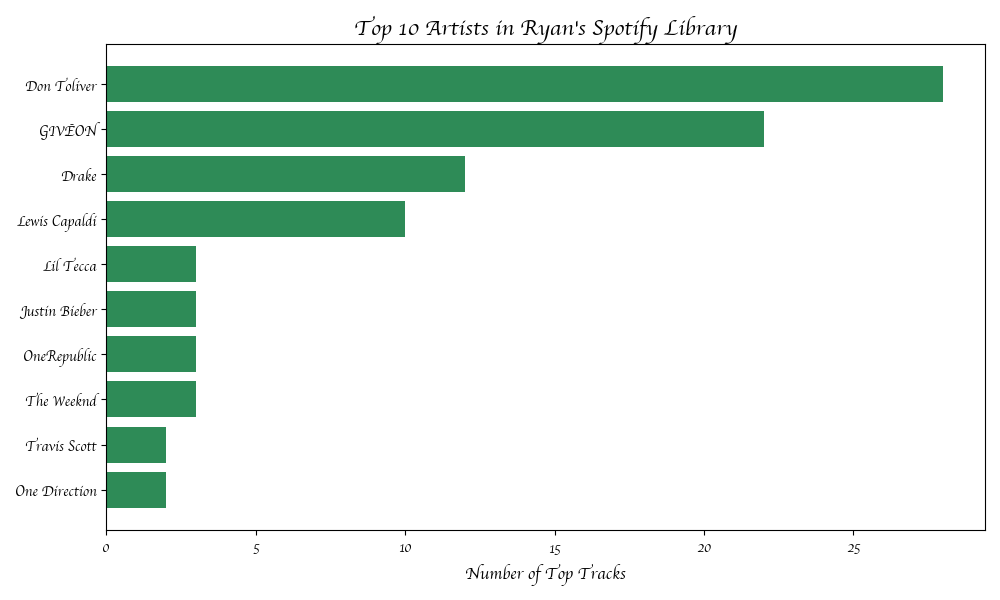
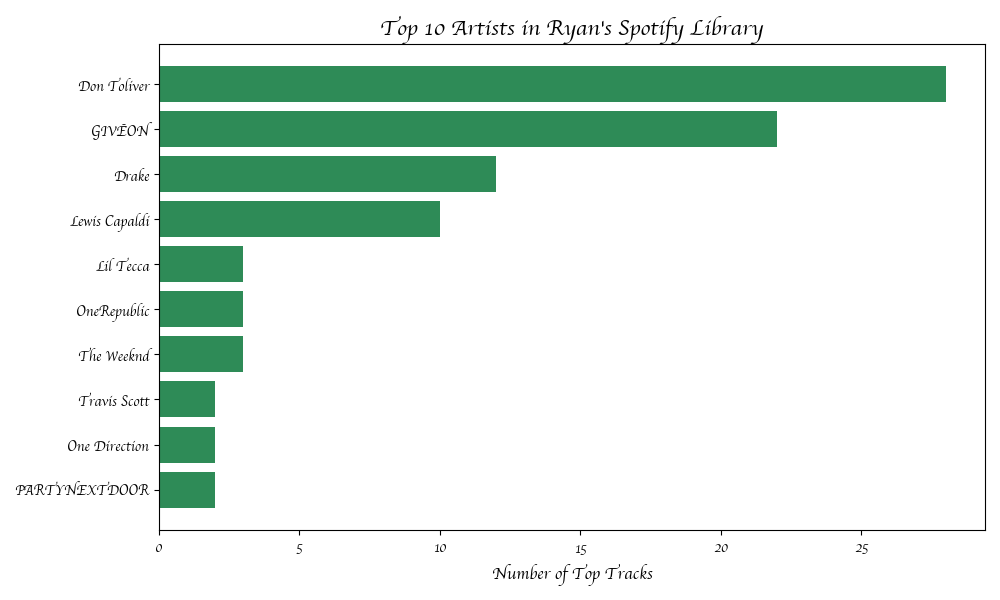
add genre pie chart visualization

diff --git a/fetch_data.py b/fetch_data.py
@@ -28,6 +28,78 @@ for tr in ['short_term', 'medium_term', 'long_term']:
 
 df = pd.DataFrame(all_tracks)
 
+artist_genres = {
+    "GIVĒON": "r&b",
+    "Lewis Capaldi": "pop",
+    "JIHYO": "k-pop",
+    "Olivia Rodrigo": "pop",
+    "Lil Tecca": "hip hop",
+    "HUNTR/X": "k-pop",
+    "Travis Scott": "hip hop",
+    "DaBaby": "hip hop",
+    "Drake": "hip hop",
+    "Macklemore": "hip hop",
+    "Preme": "hip hop",
+    "SZA": "r&b",
+    "Future": "hip hop",
+    "Swae Lee": "hip hop",
+    "Don Toliver": "hip hop",
+    "Zedd": "electronic",
+    "Yeat": "hip hop",
+    "Kelly Clarkson": "pop",
+    "KATSEYE": "k-pop",
+    "NIKI": "indie pop",
+    "24kGoldn": "hip hop",
+    "MAGIC!": "reggae fusion",
+    "Twenty One Pilots": "alternative",
+    "Addison Rae": "pop",
+    "Kehlani": "r&b",
+    "One Direction": "pop",
+    "PARTYNEXTDOOR": "r&b",
+    "Brent Faiyaz": "r&b",
+    "One Republic": "pop",
+    "Calvin Harris": "electronic",
+    "Tory Lanez": "hip hop",
+    "Robin Schulz": "electronic",
+    "USHER": "r&b",
+    "Mariah the Scientist": "r&b",
+    "Justin Bieber": "pop",
+    "James Arthur": "pop",
+    "David Guetta": "electronic",
+    "Bruno Mars": "pop",
+    "Lady Gaga": "pop",
+    "The Kid LAROI": "hip hop",
+    "Maroon 5": "pop",
+    "Melanie Martinez": "alternative pop",
+    "Ruth B.": "indie pop",
+    "ian": "indie pop",
+    "Dominic Fike": "indie pop",
+    "Shawn Mendes": "pop",
+    "D'Aydrian Harding": "r&b",
+    "Carly Rae Jepsen": "pop",
+    "Kendrick Lamar": "hip hop",
+    "The Weeknd": "r&b",
+    "Offset": "hip hop",
+    "Ariana Grande": "pop",
+    "John Legend": "r&b",
+    "Metro Boomin": "hip hop",
+    "The Chainsmokers": "electronic",
+    "Jason Mraz": "pop",
+    "Mr. Probz": "pop",
+    "DNCE": "pop",
+    "Lauv": "indie pop",
+    "Halsey": "alternative pop",
+    "Macklemore": "hip hop",
+    "DJ Snake": "electronic",
+    "Baby Keem": "hip hop",
+    "NAV": "hip hop",
+    "Niall Horan": "pop",
+    "Avicii": "electronic",
+
+}
+
+df['genre'] = df['artist'].map(artist_genres)
+
 df.to_csv("ryan_spotify.csv", index=False)
 pd.set_option('display.max_rows', None)
 pd.set_option('display.max_columns', None)

diff --git a/visualize.py b/visualize.py
@@ -1,12 +1,12 @@
 import pandas as pd
 import matplotlib.pyplot as plt
 
+plt.rcParams['font.family'] = "cursive"
 df = pd.read_csv("ryan_spotify.csv")
 
 artist_count = df['artist'].value_counts().head(10)
 
 plt.figure(figsize=(10, 6))
-plt.rcParams['font.family'] = "cursive"
 plt.barh(artist_count.index, artist_count.values, color='seagreen')
 plt.xlabel('Number of Top Tracks', fontsize=12)
 plt.title("Top 10 Artists in Ryan's Spotify Library", fontsize=16, fontweight="bold")
@@ -28,3 +28,16 @@ for a in recents:
 print("\nLong-term obsessions:")
 for a in past:
     print(f" {a}")
+
+genre_counts = df['genre'].value_counts()
+plt.figure(figsize=(8,8))
+plt.pie(
+    genre_counts.values,
+    labels=genre_counts.index,
+    autopct='%1.1f%%',
+    startangle=140,
+)
+plt.title("Ryan's Listening by Genre", fontsize=16, fontweight="bold")
+plt.tight_layout()
+plt.savefig("genre_chart.png")
+plt.show()